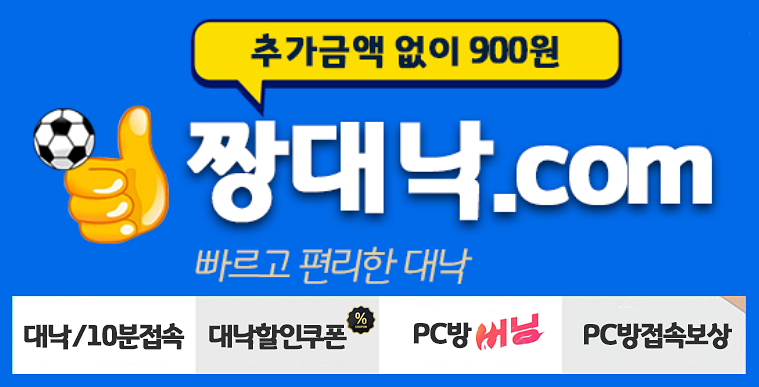
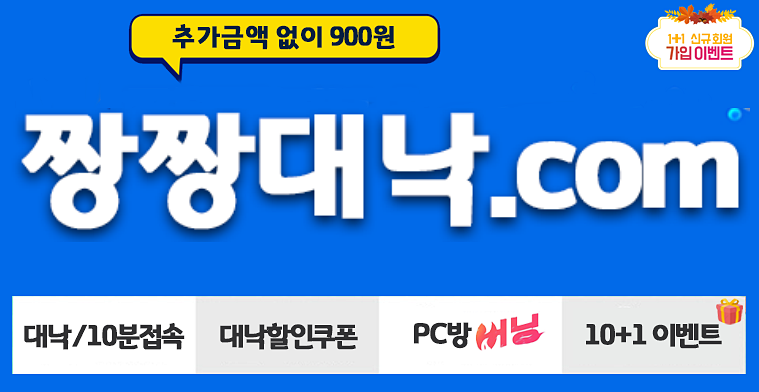
짱짱대낙 광고 추가
인덱스. 유틸리티, 티어리스트

diff --git a/templates/tierlist.html b/templates/tierlist.html
@@ -1204,6 +1204,17 @@
 
                 if (idx === 9) {
                     html += `
+                    <a class="teamcolor-row" href="https://jjangdaenak.com/" target="_blank" rel="noopener nofollow sponsored"
+                        onclick="gtag('event', 'ad_click', { 'ad_name': 'jjangdaenak', 'placement': 'tierlist_card' });"
+                        style="text-decoration:none; display:block; background: rgba(255,184,0,0.06); border-color: rgba(255,184,0,0.3);">
+                        <div class="teamcolor-header">
+                            <span class="teamcolor-name">🎰 짱짱대낙 - 추가요금 없이 900원! 검증된 빠르고 편리한 대낙, 짱짱대낙! (AD)</span>
+                        </div>
+                    </a>`;
+                }
+
+                if (idx === 19) {
+                    html += `
                     <a class="teamcolor-row" href="https://link.coupang.com/a/gQvGOGMErA" target="_blank" rel="noopener nofollow sponsored"
                         onclick="gtag('event', 'ad_click', { 'ad_name': 'x05pro_pad', 'placement': 'tierlist_card' });"
                         style="text-decoration:none; display:block; background: rgba(255,184,0,0.06); border-color: rgba(255,184,0,0.3);">

diff --git a/templates/utility.html b/templates/utility.html
@@ -120,6 +120,13 @@
             <div class="utility-card-desc">특정 팀컬러의 케미 효과 검색과 더불어, 특히 특성 팀컬러의 선수 명단/시즌/상세 정보를 확인하는데 매우 편리해요.</div>
         </a>
 
+        <a class="utility-card" href="https://jjangdaenak.com/" target="_blank" rel="noopener nofollow sponsored"
+            onclick="gtag('event', 'ad_click', { 'ad_name': 'jjangdaenak', 'placement': 'utility_page' });">
+            <div class="utility-card-title">🎰 짱짱대낙</div>
+            <div class="utility-card-desc">추가요금 없이 900원! 상시 회원가입 및 10+1 이벤트까지! 검증된 빠르고 편리한 대낙, 짱짱대낙!<br><span
+                    class="utility-card-badge">AD</span></div>
+        </a>
+
         <a class="utility-card" href="https://link.coupang.com/a/gQvGOGMErA" target="_blank"
             rel="noopener nofollow sponsored"
             onclick="gtag('event', 'ad_click', { 'ad_name': 'x05pro_pad', 'placement': 'utility_page' });">
